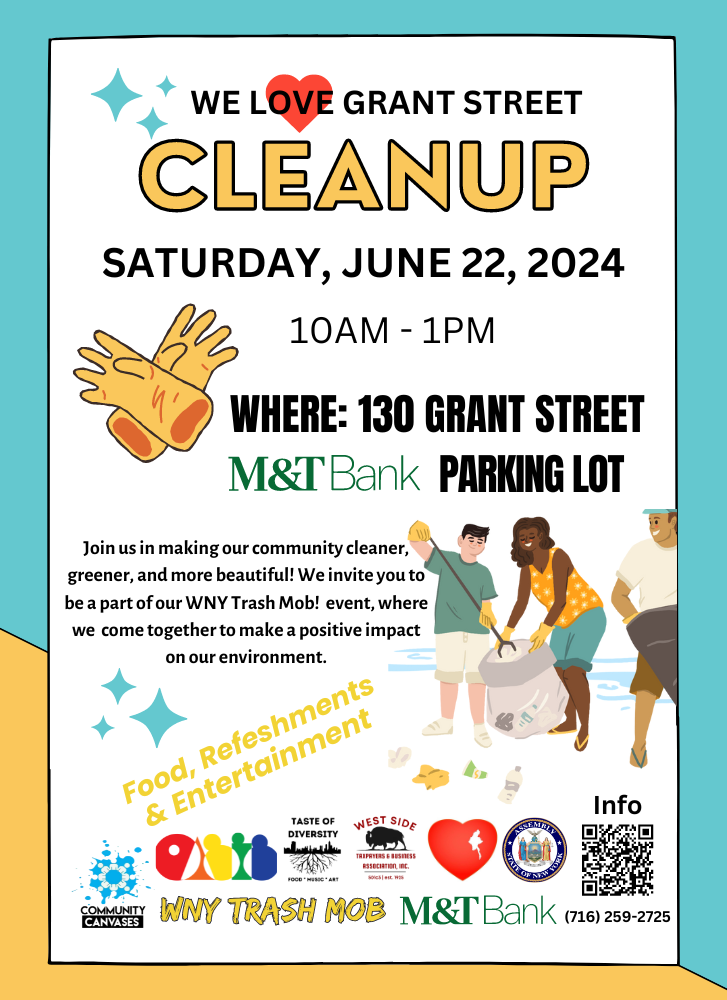
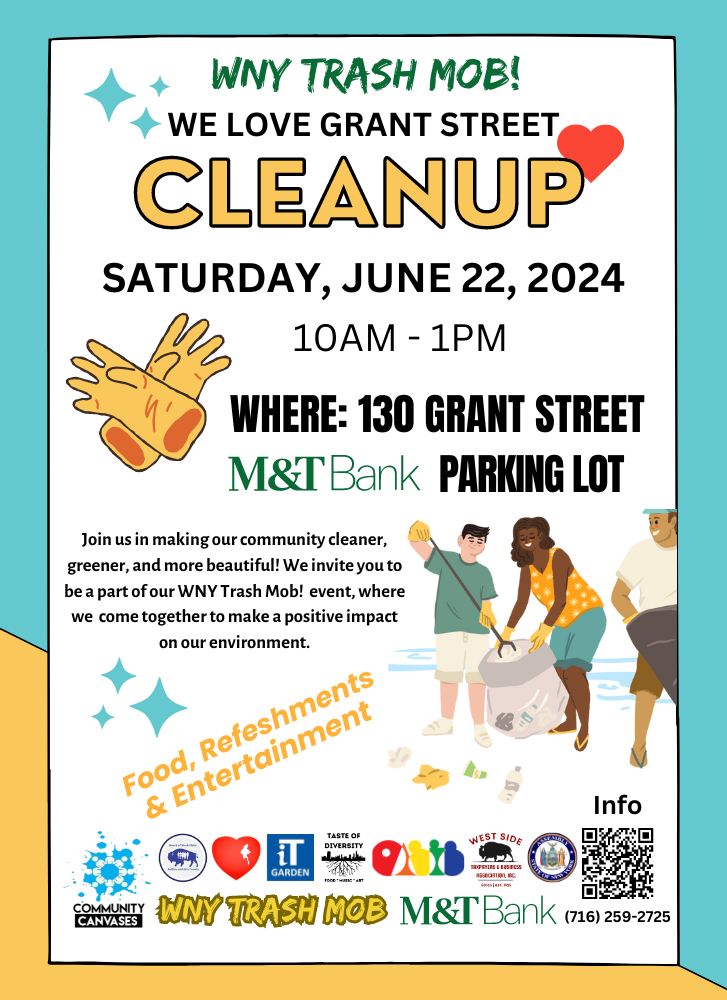
Update events

Changed region(s): [[0.0908, 0.031, 0.8776, 0.496], [0.0908, 0.527, 0.9078, 0.93]]

diff --git a/index.md b/index.md
@@ -12,17 +12,19 @@ excerpt: "facilitating community engagement and expression through the arts"
 # Upcoming Events
 {: .text-center}
 
-**WRITE ON! May 21st at 6:00pm** at Rise of WNY [Info/Sign-up](
-    https://kindfools.org/writeon/){: .btn .btn--success}<br>
 Community Swing 6pm to 9pm every Wednesday [Details](
     https://www.facebook.com/communityswing){: .btn .btn--info}<br>
-Thank you to everyone who participated in WNY Trash Mob's Grant Street Cleanup May 18th** [Details](
+WNY Trash Mob's **We Love Grant Street** June 22nd [Details](
+    /events/cleanup20240622/){: .btn .btn--info}<br>
+Thank you to everyone who participated in WNY Trash Mob's Grant Street Cleanup May 18th [Details](
     /events/cleanup20240518/){: .btn .btn--info}<br>
 Signal Box Art Project [Info/Application](
     /signalboxes/northbuffalo/){: .btn .btn--info}<br>
+WRITE ON! [Info](
+    https://kindfools.org/writeon/){: .btn .btn--success}<br>
 **WNY Trash Mob's Earth Day Clean Up Challenge 2024** [All the Details](
     /earthday2024/){: .btn .btn--info}<br>
-**"Heavy" Reflections** part of the Civil Writes Project
+**"Heavy" Reflections** part of the Civil Writes Project - June 22nd Celebration
    [Info](https://kindfools.org/heavyreflections/){: .btn .btn--info}<br>
 
 Calendar of [**All Events**](

diff --git a/_pages/events.md b/_pages/events.md
@@ -7,14 +7,11 @@ author_profile: false
 
 ## Upcoming Events
 
-- **WNY Trash Mob's Earth Day Clean Up Challenge 2024** [Details/Sign-up](
-    /earthday2024/){: .btn .btn--success}<br>
-
 - Community Swing 6pm to 9pm every Wednesday [Details](
     https://www.facebook.com/communityswing){: .btn .btn--info}<br>
 
-- WRITE ON! 6pm May 2nd at CAO's Masten Resource Center [Info/Sign-up](
-    https://kindfools.org/writeon/){: .btn .btn--info}<br>
+WNY Trash Mob's **We Love Grant Street** June 22nd [Details](
+    /events/cleanup20240622/){: .btn .btn--info}<br>
 
 ## Event Calendar
 
